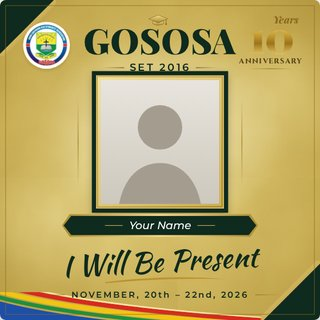
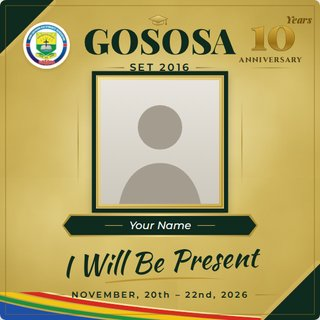
Make the gold 10 sharp: vector text with an outline

Changed region(s): [[0.75, 0.0312, 0.9688, 0.2188]]

diff --git a/css/t-gold.css b/css/t-gold.css
@@ -20,9 +20,8 @@
 .t-gold .set i:last-child,.t-gold .date i:last-child{transform:scaleX(-1)}
 .t-gold .anniv{position:absolute;right:56px;top:52px;width:220px;text-align:center}
 .t-gold .ten-wrap{position:relative;display:inline-block}
-.t-gold .ten{font-family:'Playfair Display',serif;font-weight:900;font-size:150px;line-height:.9;letter-spacing:-4px;
-  background:linear-gradient(180deg,#fff2b8 0%,#e0b84a 35%,#9c7419 70%,#e8c86a 100%);-webkit-background-clip:text;background-clip:text;color:transparent;filter:drop-shadow(0 2px 1px rgba(80,55,0,.4))}
-.t-gold .years{position:absolute;right:-18px;top:-10px;font-family:'Playfair Display',serif;font-style:italic;font-weight:800;font-size:34px;color:#8a6b1c}
+.t-gold .ten{display:block;margin:-8px auto -6px}
+.t-gold .years{position:absolute;right:-18px;top:-10px;font-family:'Playfair Display',serif;font-style:italic;font-weight:800;font-size:34px;color:#6e4f0c}
 .t-gold .ann{font-family:'Cinzel',serif;font-weight:700;font-size:25px;letter-spacing:2px;color:#4a3a10;margin-top:2px}
 .t-gold .ann-line{width:150px;height:2px;margin:6px auto 0;background:linear-gradient(90deg,transparent,#8a6b1c,transparent)}
 .t-gold .vline{position:absolute;top:330px;width:3px;height:300px;background:linear-gradient(180deg,transparent,#a88a33,transparent)}

diff --git a/js/templates.js b/js/templates.js
@@ -33,7 +33,14 @@ export const TEMPLATES = [
           <div class="set"><i></i>SET 2016<i></i></div>
         </div>
         <div class="anniv">
-          <div class="ten-wrap"><div class="ten">10</div><div class="years">Years</div></div>
+          <div class="ten-wrap">
+            <svg class="ten" viewBox="0 0 230 140" width="230" height="140">
+              <defs><linearGradient id="ten-g" x1="0" y1="0" x2="0" y2="1">
+                <stop offset="0" stop-color="#fff1b0"/><stop offset=".38" stop-color="#e2b847"/><stop offset=".7" stop-color="#9a7014"/><stop offset="1" stop-color="#e9c565"/></linearGradient></defs>
+              <text x="115" y="127" text-anchor="middle" font-family="Playfair Display" font-weight="900" font-size="150" letter-spacing="-4" fill="#4a3305" opacity=".35">10</text>
+              <text x="115" y="124" text-anchor="middle" font-family="Playfair Display" font-weight="900" font-size="150" letter-spacing="-4" fill="url(#ten-g)" stroke="#6e4f0c" stroke-width="1.6" paint-order="stroke">10</text>
+            </svg>
+            <div class="years">Years</div></div>
           <div class="ann">ANNIVERSARY</div><div class="ann-line"></div>
         </div>
         <div class="vline" style="left:262px"></div><div class="vline" style="right:262px"></div>
